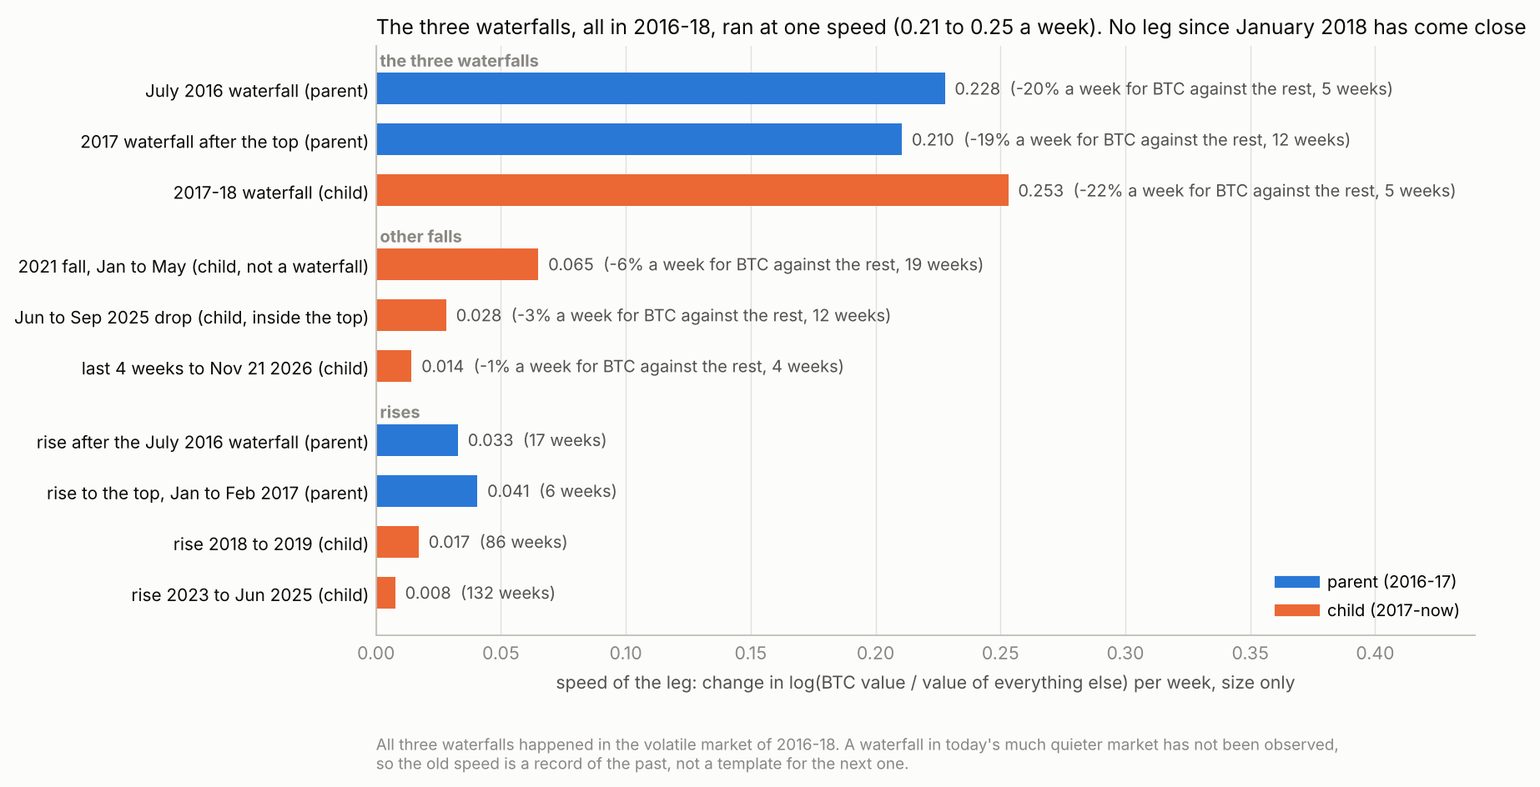
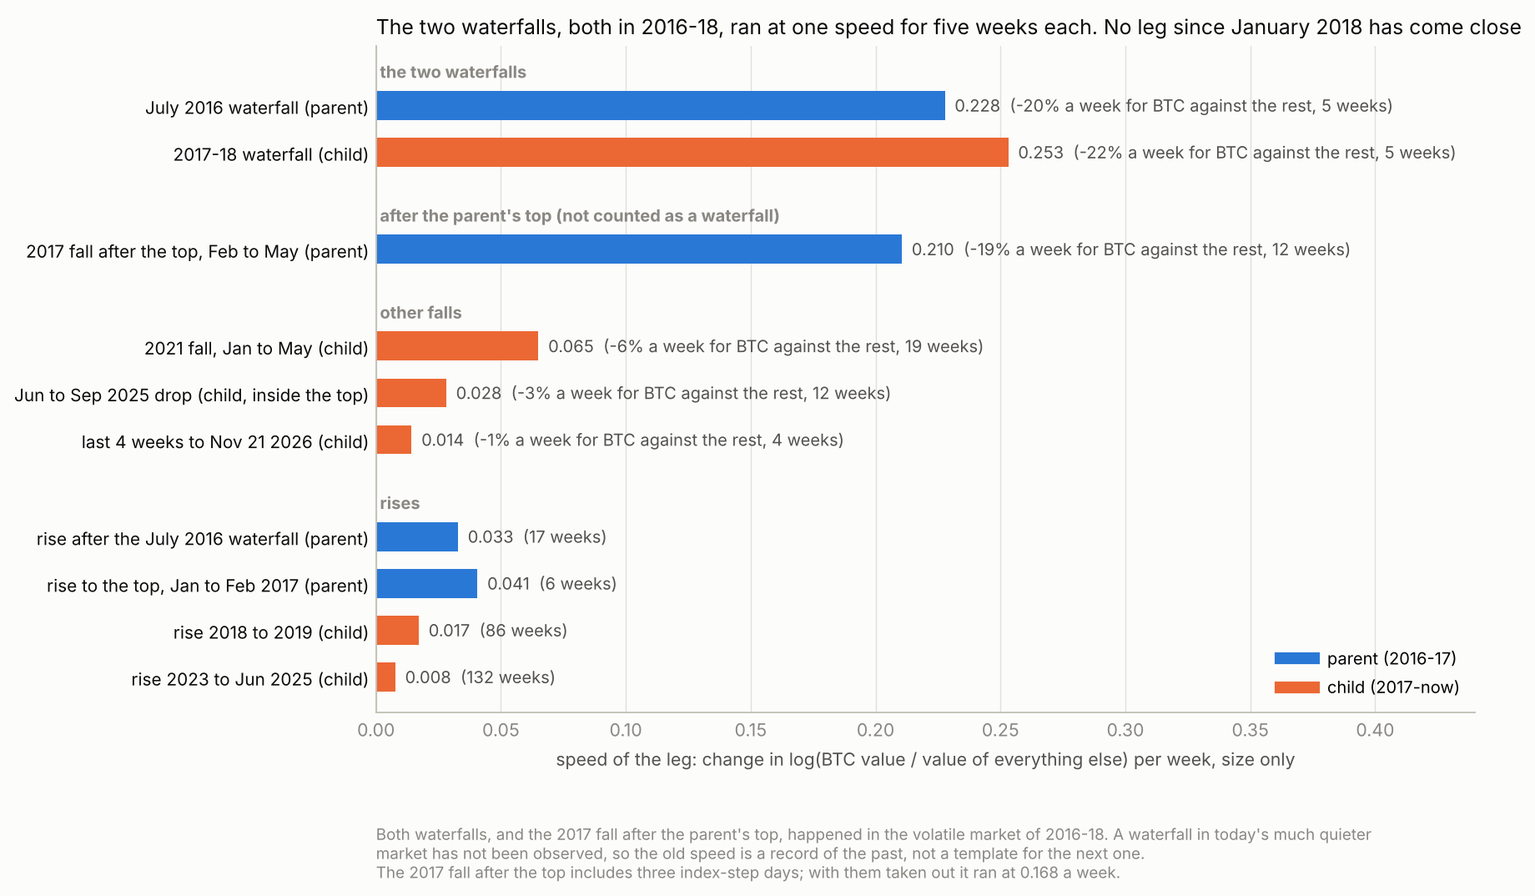
BTC.D fractal rounds 16-17: two waterfalls in 2016-18, not three
On Steven's correction (Nov 22 2026, 8:22 AM EST / 13:22 UTC) the waterfalls are the
mid-July 2016 waterfall and the 2017-18 waterfall. The 2017 fall after the parent's top
is listed apart, as the leg the parent drew next, and is no longer counted as a waterfall.
Leg-speed chart redrawn; the after-the-fact volatility thresholds now use two starts.

Claude-Session: https://claude.ai/code/session_01252pBFjJ3q147HneYEfeUS

diff --git a/research/btcd_fractal/round17/charts.py b/research/btcd_fractal/round17/charts.py
@@ -69,26 +69,37 @@ def fig_time_map():
 
 def fig_leg_speeds():
     L = json.load(open(c.HERE / "m6_leg_speeds.json"))
-    pick = {"July 2016 waterfall": "July 2016 waterfall (parent)", "2017 waterfall after the parent's top": "2017 waterfall after the top (parent)", "2017-18 waterfall": "2017-18 waterfall (child)",
-            "2021 fall, sharp part from the Jan 3 2021 high": "2021 fall, Jan to May (child, not a waterfall)", "Jun-Sep 2025 drop (inside the top)": "Jun to Sep 2025 drop (child, inside the top)",
-            "rise after the July 2016 waterfall": "rise after the July 2016 waterfall (parent)", "rise to the top": "rise to the top, Jan to Feb 2017 (parent)",
-            "rise after the 2017-18 waterfall": "rise 2018 to 2019 (child)", "rise to the Jun 22 2025 high": "rise 2023 to Jun 2025 (child)"}
-    rows = [(pick[r["leg"]], abs(r["speedLogitPerWeek"]), r["era"], r["weeks"]) for r in L["legs"] if r["leg"] in pick]
-    rows.insert(5, ("last 4 weeks to Nov 21 2026 (child)", abs(L["last4w"]) / 4, "child", 4))
-    fig, ax = plt.subplots(figsize=(10, 5.4)); style(ax, "x")
-    y = np.arange(len(rows))[::-1].astype(float); y[:3] += 0.9; y[3:6] += 0.45
-    for (name, v, era, wks), yy in zip(rows, y):
-        ax.barh(yy, v, height=0.62, color=PAR if era == "parent" else CHI)
-        ax.annotate(f"{v:.3f}  ({np.expm1(-v) * 100:+.0f}% a week for BTC against the rest, {wks:.0f} weeks)" if yy > y[6] else f"{v:.3f}  ({wks:.0f} weeks)", (v, yy), xytext=(5, 0), textcoords="offset points", va="center", color=INK2, fontsize=8.5)
-    ax.set_yticks(y); ax.set_yticklabels([r[0] for r in rows], color=INK, fontsize=8.8)
-    for txt, yy in (("the three waterfalls", y[0] + 0.55), ("other falls", y[3] + 0.55), ("rises", y[6] + 0.55)):
-        ax.annotate(txt, (0, yy), xytext=(2, 0), textcoords="offset points", color=MUTED, fontsize=8.5, fontweight="bold", va="center")
+    legs = {r["leg"]: r for r in L["legs"]}
+    # Steven, Nov 22 2026: only two waterfalls in 2016-18 (the mid-July 2016 waterfall and the 2017-18 waterfall).
+    groups = [("the two waterfalls", [("July 2016 waterfall", "July 2016 waterfall (parent)"), ("2017-18 waterfall", "2017-18 waterfall (child)")]),
+              ("after the parent's top (not counted as a waterfall)", [("2017 fall after the parent's top (not counted as a waterfall)", "2017 fall after the top, Feb to May (parent)")]),
+              ("other falls", [("2021 fall, sharp part from the Jan 3 2021 high", "2021 fall, Jan to May (child)"), ("Jun-Sep 2025 drop (inside the top)", "Jun to Sep 2025 drop (child, inside the top)"),
+                               (None, "last 4 weeks to Nov 21 2026 (child)")]),
+              ("rises", [("rise after the July 2016 waterfall", "rise after the July 2016 waterfall (parent)"), ("rise to the top", "rise to the top, Jan to Feb 2017 (parent)"),
+                         ("rise after the 2017-18 waterfall", "rise 2018 to 2019 (child)"), ("rise to the Jun 22 2025 high", "rise 2023 to Jun 2025 (child)")])]
+    fig, ax = plt.subplots(figsize=(10, 6.1)); style(ax, "x")
+    yy, ticks, labels = 0.0, [], []
+    for title, items in groups:
+        ax.annotate(title, (0, yy), xytext=(2, 0), textcoords="offset points", color=MUTED, fontsize=8.5, fontweight="bold", va="center")
+        yy -= 0.72
+        for key, label in items:
+            if key is None:
+                v, era, wks = abs(L["last4w"]) / 4, "child", 4
+            else:
+                r = legs[key]; v, era, wks = abs(r["speedLogitPerWeek"]), r["era"], r["weeks"]
+            ax.barh(yy, v, height=0.62, color=PAR if era == "parent" else CHI)
+            note = f"{v:.3f}  ({wks:.0f} weeks)" if title == "rises" else f"{v:.3f}  ({np.expm1(-v) * 100:+.0f}% a week for BTC against the rest, {wks:.0f} weeks)"
+            ax.annotate(note, (v, yy), xytext=(5, 0), textcoords="offset points", va="center", color=INK2, fontsize=8.5)
+            ticks.append(yy); labels.append(label); yy -= 1.0
+        yy -= 0.35
+    ax.set_yticks(ticks); ax.set_yticklabels(labels, color=INK, fontsize=8.8); ax.set_ylim(yy + 0.6, 0.55)
     ax.set_xlim(0, 0.44); ax.set_xlabel("speed of the leg: change in log(BTC value / value of everything else) per week, size only")
     ax.plot([], [], color=PAR, lw=6, label="parent (2016-17)"); ax.plot([], [], color=CHI, lw=6, label="child (2017-now)")
     ax.legend(loc="lower right", frameon=False, fontsize=8.5)
-    ax.set_title("The three waterfalls, all in 2016-18, ran at one speed (0.21 to 0.25 a week). No leg since January 2018 has come close", loc="left", fontsize=10.5, color=INK)
-    fig.text(0.125, -0.02, "All three waterfalls happened in the volatile market of 2016-18. A waterfall in today's much quieter market has not been observed,\n"
-             "so the old speed is a record of the past, not a template for the next one.", color=MUTED, fontsize=8, va="top")
+    ax.set_title("The two waterfalls, both in 2016-18, ran at one speed for five weeks each. No leg since January 2018 has come close", loc="left", fontsize=10.5, color=INK)
+    fig.text(0.125, -0.02, "Both waterfalls, and the 2017 fall after the parent's top, happened in the volatile market of 2016-18. A waterfall in today's much quieter\n"
+             "market has not been observed, so the old speed is a record of the past, not a template for the next one.\n"
+             "The 2017 fall after the top includes three index-step days; with them taken out it ran at 0.168 a week.", color=MUTED, fontsize=8, va="top")
     fig.savefig(c.HERE / "leg_speeds.png", dpi=170, bbox_inches="tight"); plt.close(fig)
 
 

diff --git a/research/btcd_fractal/round17/m6_leg_speeds.py b/research/btcd_fractal/round17/m6_leg_speeds.py
@@ -2,8 +2,9 @@
 """Round 17 M6 (description): how fast each leg of BTC.D ran, in logit per week, parent and child.
 
 logit BTC.D = log(BTC value / value of everything else), so -0.25 logit in a week means BTC lost 22% against
-everything else that week. Legs are the settled structures plus the three actual waterfall events (the only
-waterfalls, by Steven's rule), the 2021 fall and the Jun-Sep 2025 drop (listed apart, not as waterfalls).
+everything else that week. Legs are the settled structures plus the two actual waterfall events (the only
+waterfalls, by Steven's rule: the mid-July 2016 waterfall and the 2017-18 waterfall). Listed apart and never counted
+as waterfalls: the fall after the parent's top in 2017 (what the parent did next), the 2021 fall and the Jun-Sep 2025 drop.
 Run: python3 m6_leg_speeds.py
 """
 import json
@@ -14,8 +15,8 @@ d = c.btcd(); dl = c.lbtcd(); dls = c.lbtcd(True); w = c.weekly(dl); ws = c.week
 tot = c.load("TOTAL")
 LEGS = [  # kind, era, name, start, end (weekly closes)
     ("waterfall", "parent", "July 2016 waterfall", "2016-06-19", "2016-07-24"),
-    ("waterfall", "parent", "2017 waterfall after the parent's top", "2017-02-26", "2017-05-21"),
     ("waterfall", "child", "2017-18 waterfall", "2017-12-10", "2018-01-14"),
+    ("after the top", "parent", "2017 fall after the parent's top (not counted as a waterfall)", "2017-02-26", "2017-05-21"),
     ("other fall", "parent", "mid-structure fall (index step Dec 16 2016)", "2016-11-20", "2016-12-18"),
     ("other fall", "child", "2021 fall (mid-structure), whole stretch from the Sep 2019 high", "2019-09-08", "2021-05-16"),
     ("other fall", "child", "2021 fall, sharp part from the Jan 3 2021 high", "2021-01-03", "2021-05-16"),
@@ -40,7 +41,7 @@ for kind, era, name, a, b in LEGS:
          "btcVsRestMultiple": round(float(np.exp(seg.iloc[-1] - seg.iloc[0])), 3),
          "marketValueAtStartBn": round(float(tot.asof(a)) / 1e9, 1)}
     rows.append(r); print({k: r[k] for k in ("kind", "era", "leg", "weeks", "btcd", "moveLogit", "moveLogitStepsOut", "speedLogitPerWeek", "speedStepsOut", "fastest4WeeksLogit", "biggestWeekLogit", "marketValueAtStartBn")})
-# every 4-week fall of BTC.D on record, to see how rare waterfall speed is outside the three waterfalls
+# every 4-week fall of BTC.D on record, to see how rare waterfall speed is outside the two waterfalls
 d4 = w.diff(4).dropna()
 thr = -0.5
 hits = d4[d4 <= thr]
@@ -65,8 +66,9 @@ print("last 4 weeks", now4, "last 13 weeks", now13, "child weekly changes since 
 # is "volatile and rising" special to the waterfalls? The same two readings at the start of the other falls, and how common the state is
 wv = dls.diff().rolling(91).std().resample("W-SUN").last(); mv = ws.diff(13)
 others = [{"fall": n, "start": a, "volPerDay13w": round(float(wv.asof(pd.Timestamp(a))), 4), "move13wLogit": round(float(mv.asof(pd.Timestamp(a))), 3)}
-          for n, a in (("2021 fall, from the Sep 2019 high", "2019-09-08"), ("2021 fall, sharp part", "2021-01-03"), ("Jun-Sep 2025 drop", "2025-06-22"))]
-lo_v = min(b["volPerDay13w"] for b in before[:3]); lo_m = min(b["move13wLogit"] for b in before[:3])
+          for n, a in (("2017 fall after the parent's top", "2017-02-26"), ("2021 fall, from the Sep 2019 high", "2019-09-08"), ("2021 fall, sharp part", "2021-01-03"), ("Jun-Sep 2025 drop", "2025-06-22"))]
+wf = before[:-1]   # the waterfalls only (the last entry is today)
+lo_v = min(b["volPerDay13w"] for b in wf); lo_m = min(b["move13wLogit"] for b in wf)
 rec = wv["2014-06-01":]; state = ((wv >= lo_v) & (mv >= lo_m))["2014-06-01":]
 base = {"since": "2014-06-01", "weeks": int(len(rec)), "weeksAsVolatileAsTheQuietestWaterfallStart": int((rec >= lo_v).sum()), "lastSuchWeek": str(rec[rec >= lo_v].index[-1].date()),
         "weeksVolatileAndRising": int(state.sum()), "lastVolatileAndRisingWeek": str(state[state].index[-1].date()),

diff --git a/research/btcd_fractal/round16/waterfall_starts.py b/research/btcd_fractal/round16/waterfall_starts.py
@@ -2,7 +2,8 @@
 """Round 16: what was in place when each waterfall in BTC.D began, and the same readings today.
 
 Asked Nov 21, 2026, 11:11 PM EST / Nov 22, 04:11 UTC: timing of the waterfall. No clock is used here;
-the script only lists BTC, USDT.D and ETH/BTC around the three waterfall events on record (weekly closes).
+the script only lists BTC, USDT.D and ETH/BTC around the two waterfall events on record and around the 2017 fall
+after the parent's top (weekly closes).
 Run: python3 waterfall_starts.py [data_dir]
 """
 import json, sys
@@ -18,8 +19,11 @@ W = lambda s: s.resample("W-SUN").last()
 wbd, web, wut, wbtc = W(bd), W(eb), W(ut), W(btc)
 # Steven, Nov 21, 2026, 11:18 PM EST / Nov 22, 04:18 UTC: only the actual waterfall events count. The 2021 fall is the
 # mid-structure fall and the Jun-Sep 2025 drop sits inside the top, so neither is listed with them.
-FALLS = {"parent July 2016 waterfall": ("2016-06-19", "2016-07-24"), "parent 2017 waterfall (after the top)": ("2017-02-26", "2017-05-21"),
-         "child 2017-18 waterfall": ("2017-12-10", "2018-01-14")}
+# Steven, Nov 22, 2026, 8:22 AM EST / 13:22 UTC: there are only two waterfalls in 2016-18. Read with his Nov 2 note
+# they are the mid-July 2016 waterfall and the 2017-18 waterfall. The 2017 fall after the parent's top is kept in
+# the listing as what the parent did next, and is not counted as a waterfall.
+FALLS = {"parent July 2016 waterfall": ("2016-06-19", "2016-07-24"), "child 2017-18 waterfall": ("2017-12-10", "2018-01-14"),
+         "parent 2017 fall after the top (not counted as a waterfall)": ("2017-02-26", "2017-05-21")}
 out = {"dataThrough": str(bd.index[-1].date()), "falls": [], "now": {}}
 for name, (t, e) in FALLS.items():
     t, e = pd.Timestamp(t), pd.Timestamp(e)

diff --git a/research/btcd_fractal/round17/README.md b/research/btcd_fractal/round17/README.md
@@ -4,6 +4,11 @@ Asked Nov 21, 2026, 11:26 PM EST / Nov 22, 04:26 UTC. TradingView BTC.D, recorde
 Parent = Jun 19 2016 to Feb 26 2017 (36 weeks). Child = Dec 10 2017 to today (467 weeks). Weekly closes (weeks ending Sunday).
 The plan (PLAN.md) was written and attacked by two critics before any test was run.
 
+Corrected Nov 22, 2026, 8:22 AM EST / 13:22 UTC on Steven's word: there are only two waterfalls in 2016-18. Read with
+his Nov 2 note they are the mid-July 2016 waterfall (parent) and the 2017-18 waterfall (child), the matched pair of the
+time map. The first version counted the 2017 fall after the parent's top as a third waterfall. It is now listed apart,
+as what the parent did next, and every waterfall count below is on two.
+
 ## Answer
 
 A pattern can be seen, but it is not a clock, and it gives no date. Nothing below is a timing call or a stand-down.
@@ -19,8 +24,9 @@ A pattern can be seen, but it is not a clock, and it gives no date. Nothing belo
    stretches). It is a statement about position, not a clock, so no date can be read from it. No volatility,
    market-size or direction-change clock passed. On five stretches "later in the structure" and "later in a market that
    has grown quieter over the years" cannot be told apart.
-4. All three waterfalls on record ran at one speed, but all three are from 2016-18, in the same volatile market. How
-   fast or how long a waterfall would run in today's quiet market is untested, so the old speed is not a template.
+4. The two waterfalls (July 2016 and 2017-18) ran at one speed and took five weeks each, but both are from 2016-18,
+   in the same volatile market. How fast or how long a waterfall would run in today's quiet market is untested, so the
+   old speed is not a template.
 5. Run forward week by week with nothing supplied from hindsight, the model gives no usable reading today. With the
    amplitude fixed from hindsight it has read "the child is on the parent's top" since July 2023: it cannot tell an
    early top from a late one, so it cannot time the top.
@@ -68,8 +74,8 @@ What the table shows:
 | leg | weeks | move (logit) | speed (logit a week) | fastest 4 weeks | market value at the start |
 |---|---|---|---|---|---|
 | July 2016 waterfall (parent) | 5 | -1.138 | -0.228 | -1.011 | $12.1bn |
-| 2017 waterfall after the parent's top | 12 | -2.526 | -0.210 | -1.403 | $19.9bn |
 | 2017-18 waterfall (child) | 5 | -1.266 | -0.253 | -1.166 | $379bn |
+| not counted as a waterfall: 2017 fall after the parent's top (Feb 26 to May 21 2017) | 12 | -2.526 | -0.210 | -1.403 | $19.9bn |
 | not a waterfall: 2021 fall, sharp part (Jan 3 to May 16 2021) | 19 | -1.236 | -0.065 | -0.469 | |
 | not a waterfall: Jun to Sep 2025 drop | 12 | -0.337 | -0.028 | -0.209 | |
 | parent rise after the July 2016 waterfall | 17 | | +0.033 | | |
@@ -77,26 +83,28 @@ What the table shows:
 | child rise 2018 to 2019 | 86 | | +0.017 | | |
 | child rise to the Jun 22 2025 high | 132 | | +0.008 | | |
 
-- The three waterfalls: BTC lost 19% to 22% a week against everything else, in markets of $12bn, $20bn and $379bn. The
-  child's waterfall took the parent's five weeks. (The 2017 waterfall includes three index-step days; with them taken
-  out it is -2.02 logit, -0.168 a week.)
-- All three are from one era, June 2016 to January 2018, when BTC.D's daily volatility was 0.03 to 0.06. The child's
-  waterfall began under seven months after the parent's last one ended (May 21 to Dec 10 2017). So "the waterfall was
-  not stretched" may mean no more than "it happened in the same market". The market grew 31 times between the first
-  and the third, but volatility, the thing that sets how fast the chart moves, stayed high.
-- There has been no waterfall in the quiet market since. Whether one would run at 0.2 logit a week, or last 5 to 12
-  weeks, is untested. A real waterfall now could be slower than all three, so the old speed must not be used to judge
+- The two waterfalls: BTC lost 20% and 22% a week against everything else, in markets of $12bn and $379bn. The
+  child's waterfall took the parent's five weeks and was 1.11 times its size.
+- The 2017 fall after the parent's top is not counted as a waterfall (Steven). It is the leg the parent drew next, so
+  it stays in the table: BTC lost 19% a week for 12 weeks in a market of $20bn. It includes three index-step days; with
+  them taken out it is -2.02 logit, -0.168 a week.
+- Both waterfalls are from one era, June 2016 to January 2018, when BTC.D's daily volatility was 0.03 to 0.06. The
+  child's waterfall began 72 weeks after the parent's ended (Jul 24 2016 to Dec 10 2017). So "the waterfall was not
+  stretched" may mean no more than "it happened in the same market". The market grew 31 times between the two, but
+  volatility, the thing that sets how fast the chart moves, stayed high.
+- There has been no waterfall in the quiet market since. Whether one would run at 0.2 logit a week, or last five
+  weeks, is untested. A real waterfall now could be slower than both, so the old speed must not be used to judge
   whether one has started.
 - The 2021 fall ran at about a quarter of the waterfall speed and the 2025 drop at about an eighth. That fits keeping
-  them off the waterfall list. The 2021 fall began from volatility like the 2017 waterfall's (0.031 against 0.028) and
-  was still three times slower, so starting volatility alone does not make a waterfall; the 2025 drop began from a much
-  quieter market (0.013).
+  them off the waterfall list. The 2021 fall began from volatility like that at the start of the 2017 fall after the
+  top (0.031 against 0.028) and was still three times slower, so starting volatility alone does not set the speed; the
+  2025 drop began from a much quieter market (0.013).
 - Every 4-week fall of 0.5 logit or more on record (BTC down 39% against the rest in four weeks) ended between May 2014
   and Jan 14 2018. There are seven; none since. The largest since is -0.469 (2021). The 0.5 cut-off was picked after
   seeing the data.
 - The stretch is not spread evenly: rises ran 2 to 5 times slower in the child than in the parent, the mid-structure
   fall and the consolidation took about 20 times longer, and the one waterfall the child has had was not slower.
-- Limit: three events, one of them in the child, and its pace of 1.0 comes straight from the anchors.
+- Limit: two waterfalls, one in the parent and one in the child, and the pace of 1.0 comes straight from the anchors.
 
 BTC.D's own daily movement has shrunk over the years (median 13-week volatility of daily logit changes, index-step days
 out): 0.048 in 2016, 0.050 in 2017, 0.030 in 2018, 0.020 in 2019, 0.019 in 2020, 0.031 in 2021, 0.015 in 2022, 0.011 in
@@ -110,19 +118,22 @@ description, not a signal:
 | start | volatility | BTC.D move |
 |---|---|---|
 | July 2016 waterfall | 0.048 | +0.088 |
-| 2017 waterfall after the top | 0.028 | +0.273 |
 | 2017-18 waterfall | 0.064 | +0.582 |
+| not counted as a waterfall: 2017 fall after the parent's top | 0.028 | +0.273 |
 | not a waterfall: 2021 fall from the Sep 2019 high | 0.028 | +0.593 |
 | not a waterfall: 2021 fall, sharp part | 0.031 | +0.485 |
 | not a waterfall: Jun to Sep 2025 drop | 0.013 | +0.171 |
 | today (Nov 21 2026) | 0.0084 | -0.018 |
 
-- Each waterfall began with BTC.D volatile and rising. That is not a trigger and carries no information on timing:
-  the thresholds are simply the lowest of the three starts (picked after the fact), 82 of the 652 weeks since June 2014
-  had the state (13%), and the 2021 fall began from it as well.
-- The state has not been present since Aug 15 2021, and today's volatility is in the lowest 3% of all weeks since June
-  2014 (the lowest was 0.0073 on Sep 6 2026). But every waterfall on record predates 2018, when BTC.D was more volatile
-  all the time. So this says the market is different now. It does not say a waterfall is far off.
+- Both waterfalls began with BTC.D volatile (0.048 and 0.064) and not falling. That is not a trigger and carries no
+  information on timing: the thresholds are simply the lower of the two starts (picked after the fact), on two events.
+  88 of the 652 weeks since June 2014 were that volatile (13%), and 15 of them had BTC.D rising as much as well.
+- The 2017 fall after the parent's top, the 2021 fall and the 2025 drop all began from a quieter market than either
+  waterfall (0.028, 0.031, 0.013).
+- No week has been that volatile since Mar 11 2018 (volatile and rising: Dec 17 2017), and today's volatility is in
+  the lowest 3% of all weeks since June 2014 (the lowest was 0.0073 on Sep 6 2026). But both waterfalls predate 2018,
+  when BTC.D was more volatile all the time. So this says the market is different now. It does not say a waterfall is
+  far off.
 
 ## 4. No clock sets the pace (m4_laws.py)
 
@@ -269,8 +280,9 @@ BTC.D map, and the share of 1,000 nearby maps (inner anchors moved up to a year)
   the next fall runs at the old waterfall speed or slower is open, so the thing to watch is the fall itself, by the
   tell already set in round 16 (a weekly BTC.D close under 57.79 with ETH/BTC rising and BTC.D without stablecoins
   falling), not a speed.
-- "Roughly three months once it starts" matches the 2017 waterfall (12 weeks); the other two took 5. None of the three
-  happened in a market as quiet as today's, so the record can neither confirm nor refute it.
+- The two waterfalls took five weeks each. "Roughly three months once it starts" matches the 2017 fall after the
+  parent's top (12 weeks), which is the leg the map points to next. None of these happened in a market as quiet as
+  today's, so the record can neither confirm nor refute it.
 - BTC.D today is flat and close to its quietest on record. That makes today unlike the start of each past waterfall,
   and equally unlike the whole era they happened in. It is not evidence that a waterfall is far off.
 - The five-signal reading is 4.8% for a 5-point fall starting within 26 weeks, above the 1.96% act line at 50 to 1.
@@ -279,9 +291,9 @@ BTC.D map, and the share of 1,000 nearby maps (inner anchors moved up to a year)
 
 ## Limits
 
-- Five stretches and three waterfalls, all picked by eye. Every pace, the plateau, the rising-pace result and the
+- Five stretches and two waterfalls, all picked by eye. Every pace, the plateau, the rising-pace result and the
   cross-reference rest on those anchors. Every test above is a description of that record.
-- All three waterfalls are from 2016-18. Nothing here says how a waterfall behaves in today's quieter market.
+- Both waterfalls are from 2016-18. Nothing here says how a waterfall behaves in today's quieter market.
 - The parent's mid-structure fall is one index-step day, so the automatic alignment partly aligns to a data event.
 - The real-time run refits the alignment, but the choice of parent was made with hindsight; no forecast was scored
   (earlier rounds found no forecast skill).

diff --git a/research/btcd_fractal/round16/README.md b/research/btcd_fractal/round16/README.md
@@ -101,6 +101,7 @@ May 16, 2021). The dilation is dynamic and the parent's top is today, not Jun 22
   and rolled over; the child's June to September 2025 drop is 46 times that dip and it has not
   pushed back up (59.2 against 65.72).
 - Past falls took 5, 12, 5, 19 and 12 weeks (about 11 on average), in line with Steven's three months.
+  (Superseded: only the two 5-week falls, July 2016 and 2017-18, are waterfalls; see the timing section below.)
 - The dates taken from the plateau's fixed pace after the top do not apply on these anchors.
 
 ## Correction: the child's hump is the whole 2018 to 2021 hump (Nov 21, 2026, 10:00 PM EST / Nov 22, 03:00 UTC)
@@ -152,14 +153,21 @@ is now (the zone since June 2025), no more push up, the dilation moves.
 
 ## Timing of the waterfall: what was in place each time (Nov 21, 2026, 11:30 PM EST / Nov 22, 04:30 UTC)
 
-`waterfall_starts.py` lists BTC, USDT.D and ETH/BTC around the three actual waterfall events
-(parent July 2016, parent 2017 after its top, child 2017-18) and the same readings today. No clock
-is used. On Steven's word the 2021 fall (the mid-structure fall) and the Jun-Sep 2025 drop (inside
-the top) are not waterfalls and are left out.
+Corrected Nov 22, 2026, 8:22 AM EST / 13:22 UTC on Steven's word: there are only two waterfalls in
+2016-18. Read with his Nov 2 note they are the mid-July 2016 waterfall (parent) and the 2017-18
+waterfall (child). The first version counted the 2017 fall after the parent's top as a third.
 
-- BTC was at its 52-week high on weekly closes in all three, after +85%, +62% and +248% over the
-  prior 13 weeks. Today it is 38% below its 52-week high and -22% over 13 weeks.
-- ETH/BTC gave no early warning: +1% over the 13 weeks before the 2017 waterfall, -59% and at its
-  26-week low before 2017-18; then x3.41 and x1.86 within three weeks of the BTC.D high.
-- USDT.D was under half a percent of the market in all three, so it has no record here.
-- The three ran 5, 12 and 5 weeks. Three episodes: a description, not a rule.
+`waterfall_starts.py` lists BTC, USDT.D and ETH/BTC around the two waterfalls, around the 2017 fall
+after the parent's top (what the parent did next; not counted as a waterfall) and the same readings
+today. No clock is used. On Steven's word the 2021 fall (the mid-structure fall) and the Jun-Sep
+2025 drop (inside the top) are not waterfalls and are left out.
+
+- BTC was at its 52-week high on weekly closes at the start of both waterfalls, after +85% and +248%
+  over the prior 13 weeks, and also at the start of the 2017 fall after the top (+62%). Today it is
+  38% below its 52-week high and -22% over 13 weeks.
+- ETH/BTC gave no early warning: no data before the July 2016 waterfall; -59% and at its 26-week low
+  before 2017-18, then x1.86 within three weeks of the BTC.D high. Before the 2017 fall after the
+  top it was +1% over 13 weeks, then x3.41 within three weeks.
+- USDT.D was under half a percent of the market each time, so it has no record here.
+- Both waterfalls ran 5 weeks; the 2017 fall after the top ran 12. Two waterfalls and one more fall:
+  a description, not a rule, and all of it from 2016-18 (round 17: not a template for today).
